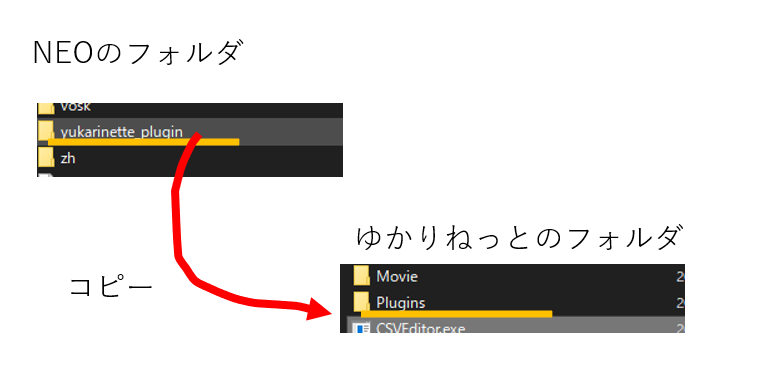
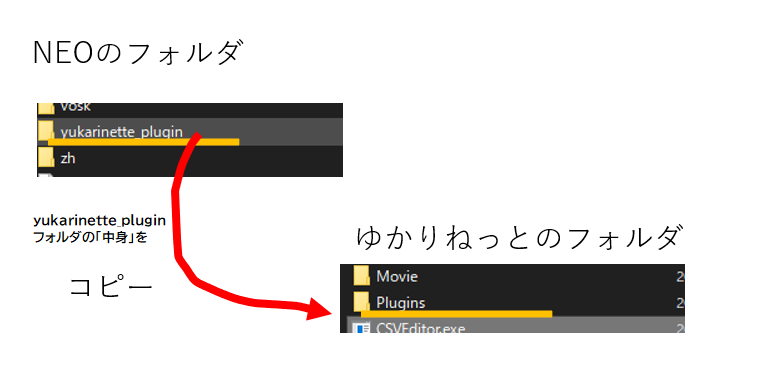
・解説で分かりにくいところを修正

Changed region(s): [[0.031, 0.5649, 0.2171, 0.6541]]

diff --git a/docs/cs/cs_yukari.md b/docs/cs/cs_yukari.md
@@ -66,12 +66,14 @@
 
 * ゆかりねっとの音声認識をONにします
 
-![yukari](images/cs_yukari_p7.png)
-
 * このタイミングでゆかりねっとコネクターNEOが起動します。
 
 * その後、音声入力元の設定をします。
 
+![yukari](images/cs_yukari_p7.png)
+
+* 設定が終わったら、音声認識をONにします
+
 ![yukari](images/cs_yukari_p8.png)
 
-* 設定が終わったら、音声認識をONにします<br>これで、発話するたびにNEOの方で翻訳・表示が行われます
+*これで、発話するたびにNEOの方で翻訳・表示が行われます
